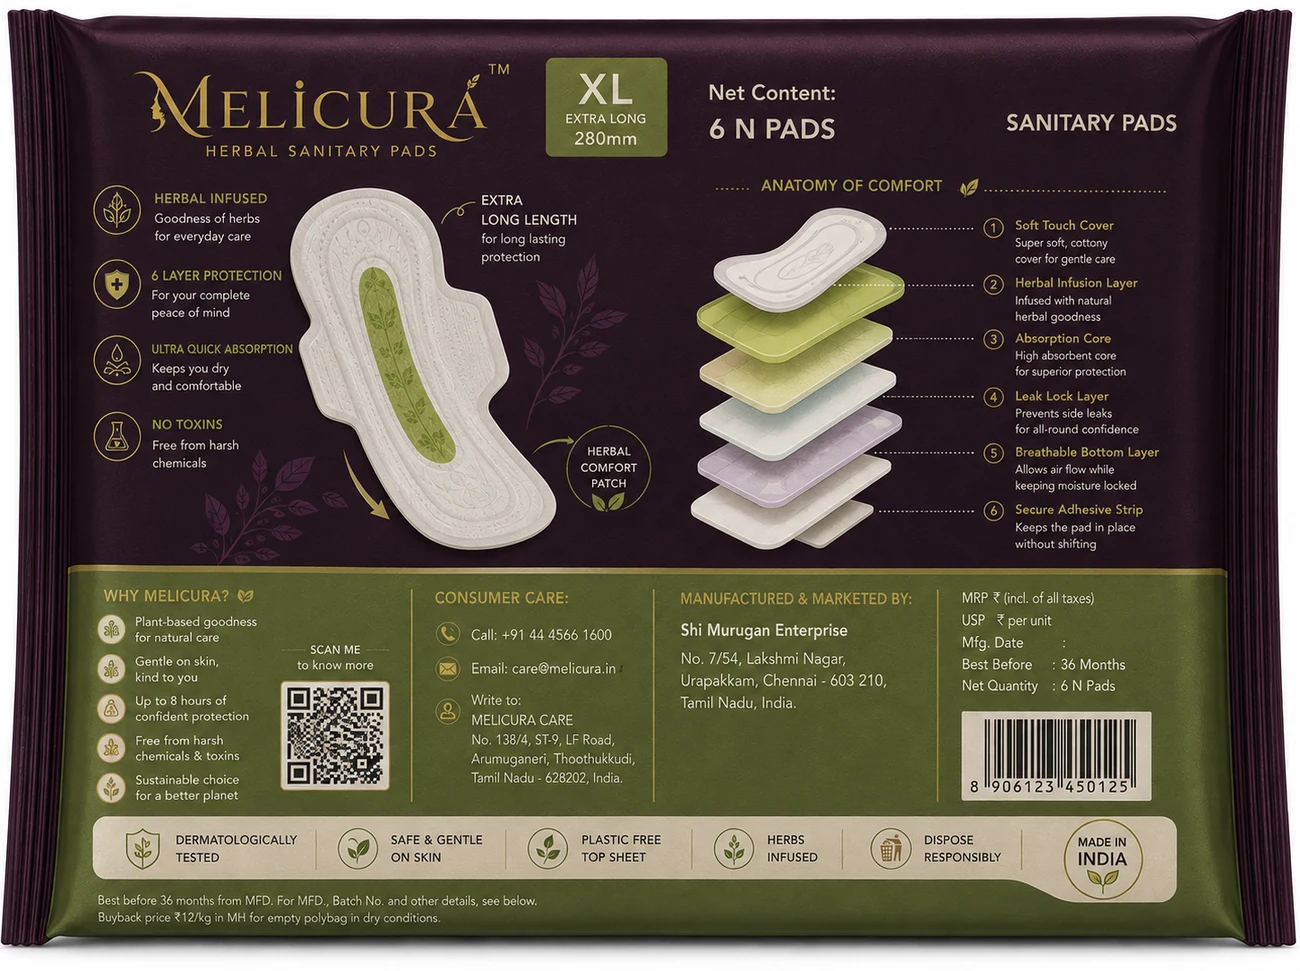
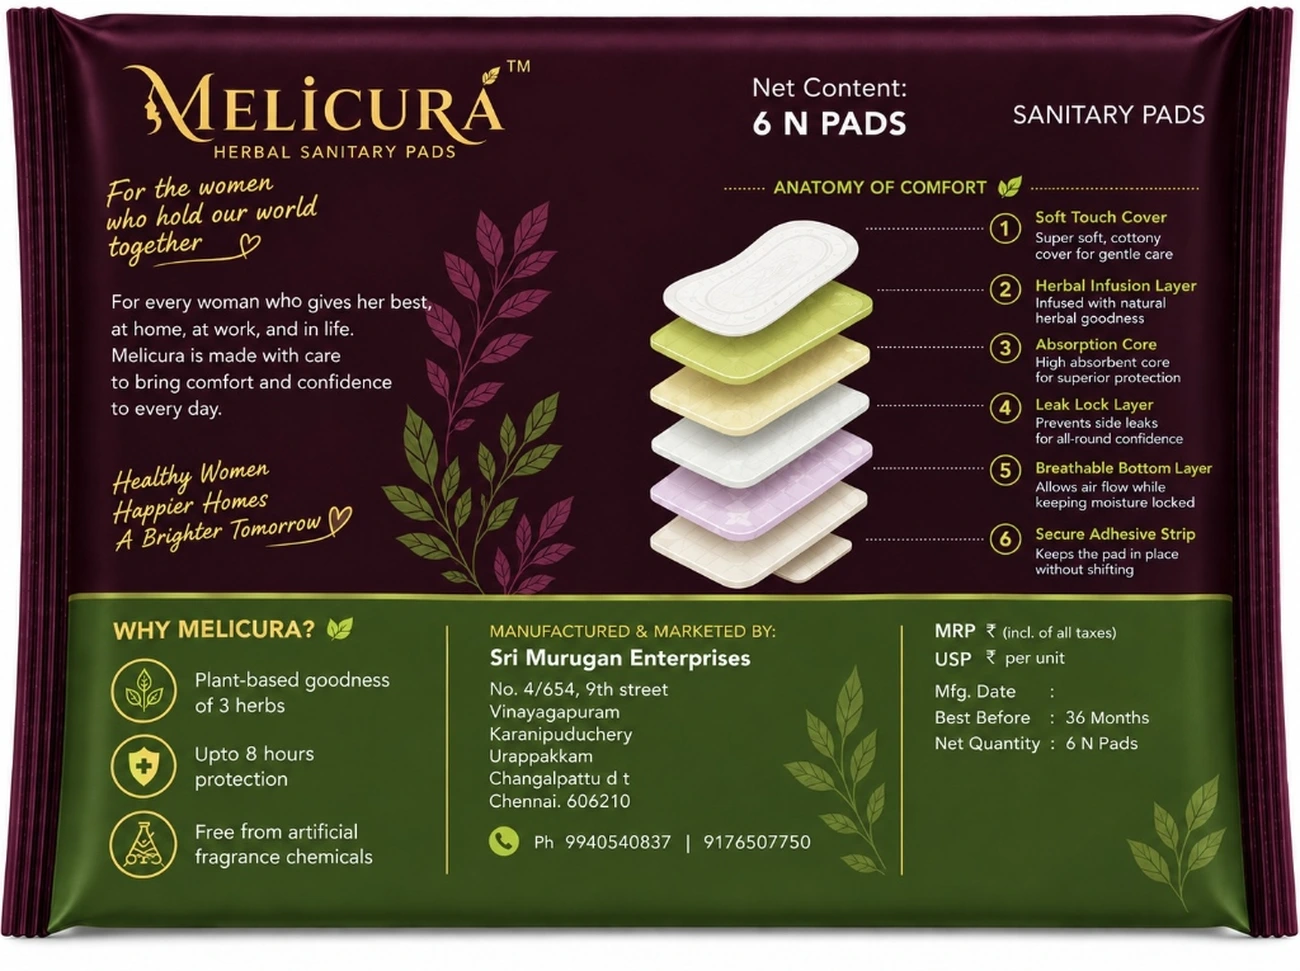
feat: new XL/XXL package images, XL/XXL variant switcher, updated highlights, 3 herbs (Malai Vembu/Melia Dubia), remove Cotton Seed

diff --git a/src/components/ProductShowcase.tsx b/src/components/ProductShowcase.tsx
@@ -1,21 +1,43 @@
-import padHerbsShowcase from '../assets/images/pad-herbs-showcase.webp'
+import { useState } from 'react'
+import packageFrontXL from '../assets/images/package-front.webp'
+import packageFrontXXL from '../assets/images/package-front-xxl.webp'
 import backDesign from '../assets/images/back-design.webp'
 import showcaseBg from '../assets/backgrounds/leaves-bowl.webp'
 import Reveal from './Reveal'
 import SectionBackground from './SectionBackground'
 import SectionDivider from './SectionDivider'
-import { LeafIcon, LayersIcon, DropletIcon, WingIcon, FeatherIcon, RulerIcon } from './icons'
+import { LeafIcon, LayersIcon, DropletIcon, WingIcon, FlaskIcon, SparkleIcon } from './icons'
 
 const details = [
-  { icon: FeatherIcon, title: 'Thin, Soft & Comfortable', desc: 'A refined, body-hugging feel throughout the day.' },
-  { icon: LeafIcon, title: 'Herbal Infused', desc: 'Herbal care for sensitive skin, in every pad.' },
+  { icon: LeafIcon, title: 'Herbal Infused', desc: 'Goodness of 3 herbs — Melia Dubia, Aloe Vera & Mint.' },
+  { icon: SparkleIcon, title: 'Herbs Benefits', desc: 'Nature-powered care infused into every layer.' },
   { icon: LayersIcon, title: '6 Layer Protection', desc: 'Complete peace of mind, layer by layer.' },
-  { icon: DropletIcon, title: 'Ultra Quick Absorption', desc: 'Keeps you dry and comfortable.' },
+  { icon: DropletIcon, title: 'Quick Absorption up to 80ml', desc: 'Stays dry and comfortable throughout the day.' },
   { icon: WingIcon, title: 'Dual Wings & Wider Back', desc: 'Extra security exactly where you need it.' },
-  { icon: RulerIcon, title: 'Extra Long — 280mm', desc: 'XL coverage for long-lasting protection.' },
+  { icon: FlaskIcon, title: 'Free from Artificial Fragrance', desc: 'No synthetic scents — pure and gentle on skin.' },
+]
+
+const variants = [
+  {
+    label: 'XL',
+    sublabel: 'Extra Long',
+    length: '280mm',
+    image: packageFrontXL,
+    alt: 'Melicura Herbal Sanitary Pads XL 280mm, 6 pad pack',
+  },
+  {
+    label: 'XXL',
+    sublabel: 'Extra Extra Long',
+    length: '320mm',
+    image: packageFrontXXL,
+    alt: 'Melicura Herbal Sanitary Pads XXL 320mm, 6 pad pack',
+  },
 ]
 
 export default function ProductShowcase() {
+  const [activeVariant, setActiveVariant] = useState(0)
+  const v = variants[activeVariant]
+
   return (
     <section id="product" className="relative overflow-hidden py-24 sm:py-32">
       <SectionBackground src={showcaseBg} overlay="cream-side-l" position="center 25%" />
@@ -28,12 +50,31 @@ export default function ProductShowcase() {
           <h2 className="mt-4 font-display text-3xl leading-tight text-plum-900 sm:text-4xl lg:text-[2.6rem]">
             Melicura™ Herbal Sanitary Pads
           </h2>
-          <p className="mt-5 text-base leading-relaxed text-plum-800/75 sm:text-lg">
-            XL · Extra Long · 280mm · 6 N Pads
+          <p className="mt-3 text-sm font-medium text-olive-700 italic">
+            Gentle by Nature. Trusted by Women. For Women, By Women.
           </p>
+
+          {/* Size switcher */}
+          <div className="mt-6 inline-flex items-center gap-2 rounded-full border border-plum-900/12 bg-white/80 p-1 shadow-soft backdrop-blur-sm">
+            {variants.map((variant, i) => (
+              <button
+                key={variant.label}
+                id={`variant-btn-${variant.label.toLowerCase()}`}
+                onClick={() => setActiveVariant(i)}
+                className={`relative rounded-full px-6 py-2 text-sm font-semibold transition-all duration-300 ${
+                  activeVariant === i
+                    ? 'bg-plum-900 text-gold-300 shadow-md'
+                    : 'text-plum-700 hover:text-plum-900'
+                }`}
+              >
+                {variant.label}
+                <span className="ml-1.5 text-xs font-normal opacity-75">· {variant.length}</span>
+              </button>
+            ))}
+          </div>
         </Reveal>
 
-        <div className="mt-16 grid grid-cols-1 items-center gap-14 lg:grid-cols-[1fr_1.15fr_1fr] lg:gap-8">
+        <div className="mt-14 grid grid-cols-1 items-center gap-14 lg:grid-cols-[1fr_1.15fr_1fr] lg:gap-8">
           {/* Left detail cards */}
           <div className="order-2 grid grid-cols-1 gap-4 sm:grid-cols-2 lg:order-1 lg:grid-cols-1">
             {details.slice(0, 3).map((d, i) => (
@@ -41,19 +82,23 @@ export default function ProductShowcase() {
             ))}
           </div>
 
-          {/* Center product image */}
+          {/* Center product image — switches between XL and XXL */}
           <Reveal className="order-1 lg:order-2" delay={2}>
             <div className="relative mx-auto max-w-sm">
               <div className="absolute inset-0 -z-10 rounded-full bg-[radial-gradient(circle,rgba(139,137,73,0.18),transparent_65%)] blur-2xl" />
-              {/* Full package front for desktop, pad+herbs for featured view */}
               <img
-                src={padHerbsShowcase}
-                alt="Melicura Herbal Sanitary Pad with Melia Dubia, Aloe Vera and Mint herbs"
-                className="w-full drop-shadow-2xl"
+                key={v.label}
+                src={v.image}
+                alt={v.alt}
+                className="w-full drop-shadow-2xl transition-all duration-500"
                 loading="lazy"
-                width={584}
-                height={830}
+                width={1300}
+                height={968}
               />
+              {/* Size badge overlay */}
+              <div className="absolute right-2 top-2 rounded-full bg-plum-900/80 px-3 py-1 text-xs font-bold text-gold-300 backdrop-blur-sm">
+                {v.label} · {v.length}
+              </div>
             </div>
           </Reveal>
 
@@ -77,20 +122,20 @@ export default function ProductShowcase() {
                 A closer look at what protects you
               </h3>
               <p className="mt-5 text-base leading-relaxed text-plum-900/85">
-                The herbal comfort patch runs through the centre of every Melicura pad — engineered with a 6-layer 3D anatomy, extra-long length, and wider-back design for confident, all-round protection.
+                The herbal comfort patch runs through the centre of every Melicura pad — engineered with a 6-layer 3D anatomy and wider-back design for confident, all-round protection.
               </p>
               <ul className="mt-6 space-y-3.5 text-sm font-medium text-plum-900">
                 <li className="flex items-center gap-3">
                   <span className="flex h-5 w-5 shrink-0 items-center justify-center rounded-full bg-gold-400/20 text-xs font-bold text-gold-700">✓</span>
-                  <span>Extra long 280mm length for long-lasting protection</span>
+                  <span>XL — 280mm &amp; XXL — 320mm extra long lengths</span>
                 </li>
                 <li className="flex items-center gap-3">
                   <span className="flex h-5 w-5 shrink-0 items-center justify-center rounded-full bg-gold-400/20 text-xs font-bold text-gold-700">✓</span>
-                  <span>Herbal comfort patch at the core with natural extracts</span>
+                  <span>Herbal comfort patch at core with Melia Dubia, Aloe Vera &amp; Mint</span>
                 </li>
                 <li className="flex items-center gap-3">
                   <span className="flex h-5 w-5 shrink-0 items-center justify-center rounded-full bg-gold-400/20 text-xs font-bold text-gold-700">✓</span>
-                  <span>3D Anatomy of Comfort: 6-layer quick-absorbing protection</span>
+                  <span>6-layer quick-absorbing protection up to 80ml</span>
                 </li>
                 <li className="flex items-center gap-3">
                   <span className="flex h-5 w-5 shrink-0 items-center justify-center rounded-full bg-gold-400/20 text-xs font-bold text-gold-700">✓</span>
@@ -109,11 +154,11 @@ export default function ProductShowcase() {
                   className="w-full rounded-xl shadow-lg transition-transform duration-500 hover:scale-[1.01]"
                   loading="lazy"
                   width={1300}
-                  height={969}
+                  height={971}
                 />
               </div>
               <p className="mt-3 text-center text-xs font-semibold text-plum-900/70">
-                Packaging back view showing the 3D Anatomy of Comfort &amp; 6-Layer Protection
+                Packaging back view — Anatomy of Comfort &amp; 6-Layer Protection
               </p>
             </div>
           </div>

diff --git a/src/content.ts b/src/content.ts
@@ -25,8 +25,13 @@ export const contact = {
 export const productSpec = {
   brand: 'Melicura™',
   category: 'Herbal Sanitary Pads',
-  variant: 'XL – Extra Long',
-  length: '280 mm',
+  variants: [
+    { label: 'XL – Extra Long', length: '280 mm', pack: '6 N Pads' },
+    { label: 'XXL – Extra Extra Long', length: '320 mm', pack: '6 N Pads' },
+  ],
+  // Legacy single fields for backward compat
+  variant: 'XL – Extra Long / XXL – Extra Extra Long',
+  length: '280 mm / 320 mm',
   pack: '6 N Pads',
   manufacturer: 'Sri Murugan Enterprises',
   barcode: '8906123450125',
@@ -34,15 +39,16 @@ export const productSpec = {
 }
 
 export const whyMelicura = [
-  { title: 'Herbal Infused', desc: 'Goodness of herbs for everyday care.', icon: 'leaf' },
+  { title: 'Herbal Infused', desc: 'Goodness of 3 herbs for everyday care.', icon: 'leaf' },
+  { title: 'Herbs Benefits', desc: 'Nature-powered protection from Melia Dubia, Aloe Vera & Mint.', icon: 'sparkle' },
+  { title: 'Quick Absorption up to 80ml', desc: 'Absorbs up to 80ml — keeps you dry and comfortable.', icon: 'droplet' },
+  { title: 'Super Soft, Super Thin', desc: 'Feather-light design that moves with you.', icon: 'feather' },
+  { title: 'Free from Artificial Fragrance', desc: 'No synthetic scents — pure and gentle on skin.', icon: 'flask' },
+  { title: 'For Women, By Women', desc: 'Crafted with care for every woman\'s everyday comfort.', icon: 'heart' },
   { title: '6 Layer Protection', desc: 'For your complete peace of mind.', icon: 'layers' },
-  { title: 'Ultra Quick Absorption', desc: 'Keeps you dry and comfortable.', icon: 'droplet' },
-  { title: 'Extra Long Length', desc: '280mm coverage for long lasting protection.', icon: 'ruler' },
-  { title: 'Soft & Comfortable', desc: 'Thin, soft design that moves with you.', icon: 'feather' },
   { title: 'Dual Wing Protection', desc: 'Wider back and dual wings for extra security.', icon: 'wing' },
   { title: 'Breathable Design', desc: 'Allows airflow while keeping moisture locked.', icon: 'wind' },
-  { title: 'No Toxins', desc: 'Free from harsh chemicals.', icon: 'flask' },
-  { title: 'No Artificial Fragrance', desc: 'Pure and gentle — no synthetic scents added.', icon: 'sparkle' },
+  { title: 'XL & XXL Sizes', desc: '280mm XL and 320mm XXL for every body.', icon: 'ruler' },
   { title: 'Eco-Conscious Disposal', desc: 'Dispose responsibly, for a better planet.', icon: 'recycle' },
   { title: 'Made in India', desc: 'Proudly manufactured in India.', icon: 'india' },
 ]
@@ -61,8 +67,8 @@ export const herbs = [
     ],
   },
   {
-    name: 'Mahanimba',
-    common: 'Melia Azedarach',
+    name: 'Malai Vembu',
+    common: 'Melia Dubia',
     image: 'mahanimba',
     points: [
       'Helps maintain hygiene',
@@ -82,17 +88,6 @@ export const herbs = [
       'Supports skin cleanliness',
       'Helps reduce odour',
       'Offers soothing comfort',
-    ],
-  },
-  {
-    name: 'Karpasa Beeja',
-    common: 'Cotton Seed',
-    image: 'karpasa',
-    points: [
-      'Supports feminine wellness',
-      'Promotes tissue nourishment',
-      'Traditionally used for women’s health',
-      'Supports natural comfort during menstrual cycle',
     ],
   },
 ]
@@ -118,10 +113,10 @@ export const benefits = [
 ]
 
 export const trustPoints = [
-  { title: 'Safe & Gentle on Skin', icon: 'heart' },
+  { title: 'For Women, By Women', icon: 'heart' },
   { title: 'No Artificial Fragrance', icon: 'sparkle' },
-  { title: 'Herbs Infused', icon: 'leaf' },
-  { title: 'Dispose Responsibly', icon: 'dispose' },
+  { title: '3 Herbs Infused', icon: 'leaf' },
+  { title: 'XL & XXL Sizes', icon: 'ruler' },
   { title: 'Made in India', icon: 'india' },
   { title: '6-Layer Protection', icon: 'layers' },
 ]

diff --git a/src/components/ProductDetails.tsx b/src/components/ProductDetails.tsx
@@ -5,13 +5,12 @@ import SectionDivider from './SectionDivider'
 import backDesign from '../assets/images/back-design.webp'
 import aloeBg from '../assets/backgrounds/hero-aloe.webp'
 
-const rows: [string, string][] = [
+const commonRows: [string, string][] = [
   ['Brand', productSpec.brand],
   ['Category', productSpec.category],
-  ['Variant', productSpec.variant],
-  ['Length', productSpec.length],
-  ['Pack', productSpec.pack],
   ['Manufacturer / Marketer', productSpec.manufacturer],
+  ['Best Before', productSpec.bestBefore],
+  ['Pack', '6 N Pads'],
 ]
 
 export default function ProductDetails() {
@@ -46,11 +45,29 @@ export default function ProductDetails() {
 
           <Reveal delay={1}>
             <div className="overflow-hidden rounded-2xl border border-plum-900/10 bg-white shadow-soft">
-              {rows.map(([label, value], i) => (
+              {/* Size variant header row */}
+              <div className="grid grid-cols-3 border-b border-plum-900/8 bg-plum-900 px-6 py-3 text-xs font-semibold uppercase tracking-wider text-gold-300">
+                <span>Specification</span>
+                <span className="text-center">XL</span>
+                <span className="text-center">XXL</span>
+              </div>
+              {/* Variant-specific rows */}
+              <div className="grid grid-cols-3 items-center border-b border-plum-900/8 bg-cream-50/60 px-6 py-4 gap-4">
+                <span className="text-xs font-semibold uppercase tracking-wider text-plum-800/50">Size</span>
+                <span className="text-center font-display text-base text-plum-900">XL – Extra Long</span>
+                <span className="text-center font-display text-base text-plum-900">XXL – Extra Extra Long</span>
+              </div>
+              <div className="grid grid-cols-3 items-center border-b border-plum-900/8 px-6 py-4 gap-4">
+                <span className="text-xs font-semibold uppercase tracking-wider text-plum-800/50">Length</span>
+                <span className="text-center font-display text-base text-plum-900">280 mm</span>
+                <span className="text-center font-display text-base text-plum-900">320 mm</span>
+              </div>
+              {/* Common rows */}
+              {commonRows.map(([label, value], i) => (
                 <div
                   key={label}
                   className={`flex flex-col gap-1 px-6 py-4 sm:flex-row sm:items-center sm:justify-between sm:gap-4 ${
-                    i !== rows.length - 1 ? 'border-b border-plum-900/8' : ''
+                    i !== commonRows.length - 1 ? 'border-b border-plum-900/8' : ''
                   } ${i % 2 === 0 ? 'bg-cream-50/60' : ''}`}
                 >
                   <span className="text-xs font-semibold uppercase tracking-wider text-plum-800/50">

diff --git a/src/components/Hero.tsx b/src/components/Hero.tsx
@@ -85,13 +85,13 @@ export default function Hero() {
             </div>
             <span className="h-8 w-px bg-cream-100/20" />
             <div className="text-center lg:text-left">
-              <p className="font-display text-2xl text-gold-300">280mm</p>
-              <p className="text-xs uppercase tracking-wider">Extra Long XL</p>
+              <p className="font-display text-2xl text-gold-300">80ml</p>
+              <p className="text-xs uppercase tracking-wider">Quick Absorption</p>
             </div>
             <span className="h-8 w-px bg-cream-100/20" />
             <div className="text-center lg:text-left">
-              <p className="font-display text-2xl text-gold-300">100%</p>
-              <p className="text-xs uppercase tracking-wider">Herbal Infused</p>
+              <p className="font-display text-xl text-gold-300">XL &amp; XXL</p>
+              <p className="text-xs uppercase tracking-wider">280mm &amp; 320mm</p>
             </div>
           </div>
         </div>
@@ -107,10 +107,10 @@ export default function Hero() {
             </div>
             <img
               src={packageFront}
-              alt="Melicura Herbal Sanitary Pads, XL 280mm, 6 pad pack"
+              alt="Melicura Herbal Sanitary Pads — XL 280mm &amp; XXL 320mm, 6 pad pack"
               className="relative w-full drop-shadow-[0_35px_60px_rgba(0,0,0,0.45)] animate-float"
               width={1300}
-              height={969}
+              height={968}
             />
           </div>
         </div>

diff --git a/src/components/HerbalCare.tsx b/src/components/HerbalCare.tsx
@@ -35,8 +35,8 @@ export default function HerbalCare() {
             Powered by Nature. Inspired by Ayurveda.
           </h2>
           <p className="mt-5 text-base leading-relaxed text-plum-800/75 sm:text-lg">
-            Melicura is enriched with four time-tested herbs, traditionally valued in Ayurvedic
-            texts for their natural care and support to women's comfort and hygiene.
+            Melicura is enriched with three time-honoured herbs — Melia Dubia, Aloe Vera and Mint
+            — traditionally valued for their natural care and support to women's comfort and hygiene.
           </p>
         </Reveal>
 

diff --git a/src/components/FeatureGrid.tsx b/src/components/FeatureGrid.tsx
@@ -19,7 +19,7 @@ export default function FeatureGrid() {
             <span className="h-px w-8 bg-gold-400" />
           </p>
           <h2 className="mt-4 font-display text-3xl leading-tight text-cream-50 sm:text-4xl lg:text-[2.6rem]">
-            Eleven reasons women trust Melicura every day
+            Twelve reasons women trust Melicura every day
           </h2>
           <p className="mt-5 text-base leading-relaxed text-cream-100/70 sm:text-lg">
             Thoughtful, herbal-infused protection — built into every layer of the pad.
